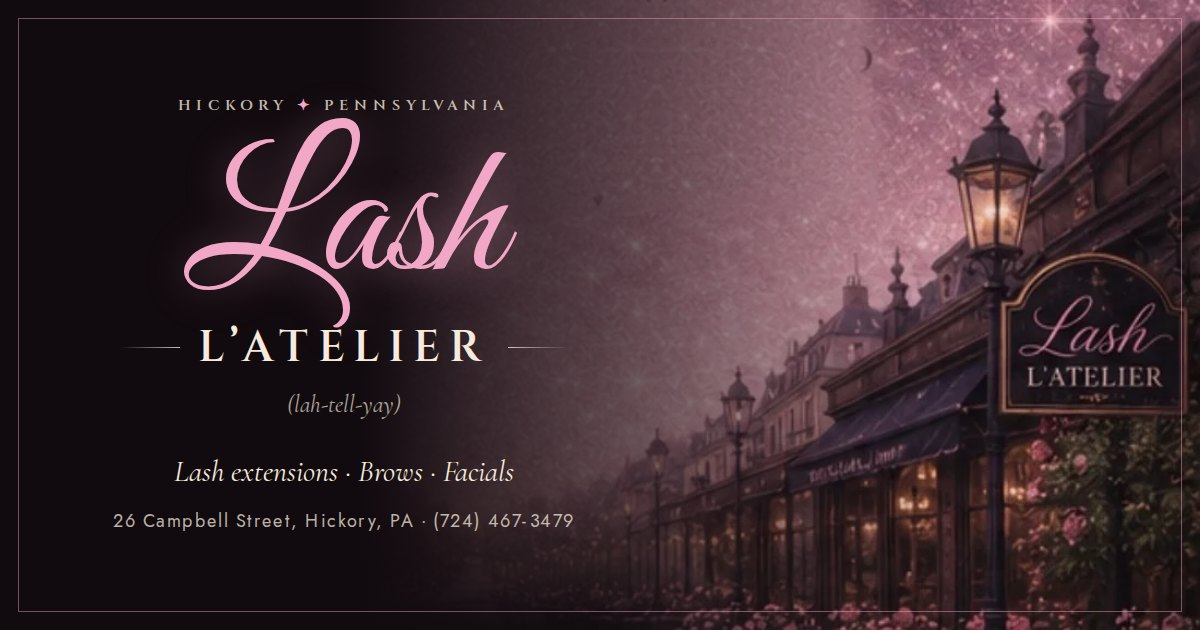
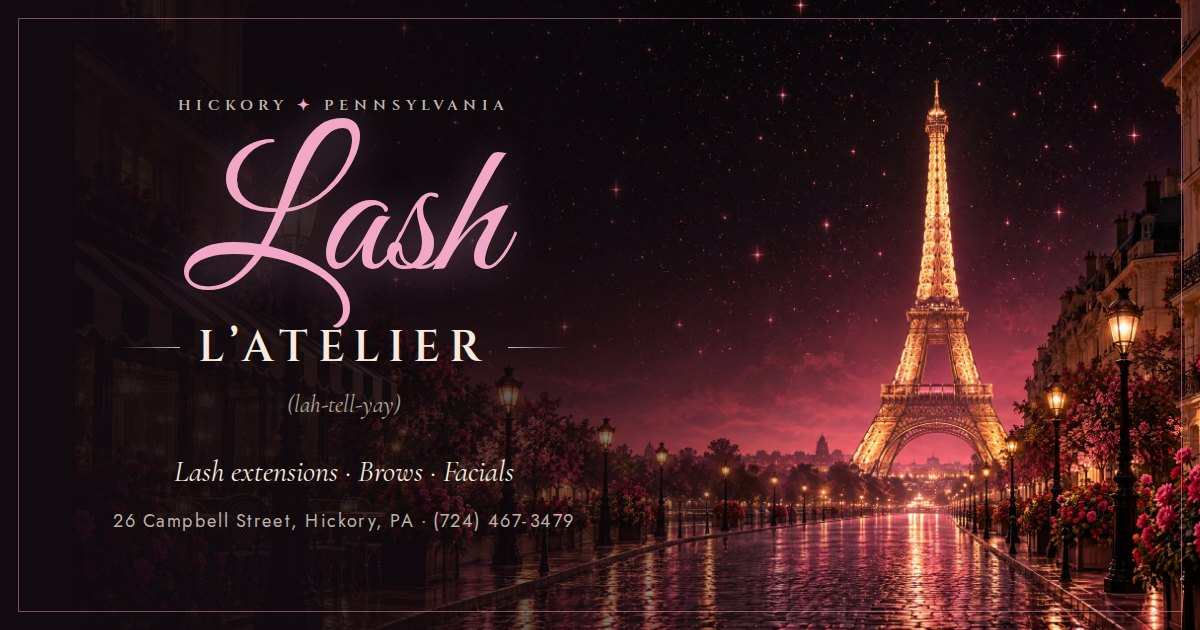
Rebuild hero around a full-bleed Eiffel Tower painting
The first hero left the upper two-thirds as empty sky with the flyer
street cropped into the bottom third. Replace it with two text-free
paintings generated for the site in the client's palette: a portrait
crop (tower centred down the street) and a landscape crop (tower right,
open sky left), art-directed with <picture> via getImageProps.

- Phone: name in the sky, actions on the lit street; a radial pool of
  night behind the name so the spire doesn't strike through it
- Desktop: left-aligned lockup and actions over the open sky
- Slow one-time settle on the painting; off under reduced motion
- Hero buttons stay on one line at 360px
- OG/Twitter card rebuilt on the new painting
- CLAUDE.md and creative direction updated with the decision

Claude-Session: https://claude.ai/code/session_017xx2nxcAqpLzJorpMfy1To

diff --git a/src/components/home/Hero.tsx b/src/components/home/Hero.tsx
@@ -1,4 +1,4 @@
-import Image from "next/image";
+import { getImageProps } from "next/image";
 import { ArrowRight, Phone } from "lucide-react";
 import OrnateFrame from "@/components/brand/OrnateFrame";
 import Sparkle from "@/components/brand/Sparkle";
@@ -7,88 +7,122 @@ import ButtonLink from "@/components/ui/ButtonLink";
 import { siteConfig } from "@/config/site.config";
 import { WELCOME_OFFER } from "@/data/offers";
 import { getBookingAction } from "@/lib/booking";
-import street from "../../../public/brand/paris-street.webp";
+import heroTall from "../../../public/brand/hero-eiffel-tall.webp";
+import heroWide from "../../../public/brand/hero-eiffel-wide.webp";
 
 /**
- * The hero is the client's flyer, rebuilt live: a black sky that warms to
- * glitter-pink at the horizon, twinkling stars, the wordmark writing itself
- * in, and their own painted Paris street — Eiffel Tower, gas lamps, and the
- * Lash L'Atelier sign — rising from the bottom of the screen.
+ * The hero is a full-bleed painting of the client's world at night: a
+ * glitter-black sky, the Eiffel Tower lit gold at the end of a rain-wet
+ * street, gas lamps, the striped café awning and roses — generated for this
+ * site (Higgsfield, Sept 2026) in the palette of their print pieces, with no
+ * lettering so the typeset wordmark owns the sky.
  *
- * On a phone the street is cropped toward its right side so the shop sign
- * and the lamp stay in frame; the tower returns as the screen widens.
+ * Two crops, art-directed with <picture>:
+ *  - tall (portrait screens): tower dead-centre down the street. The name sits
+ *    in the open sky above the spire; the actions sit on the lit cobblestones.
+ *  - wide (landscape screens): tower on the right, open sky on the left for
+ *    the name and actions — a left-aligned composition from `lg` up.
+ *
+ * The painting is the LCP element, so it is eager + high fetch priority. A
+ * slow 9s settle (scale 1.07 → 1) gives it life once; off under reduced motion.
  */
 export default function Hero() {
   const booking = getBookingAction();
 
+  const common = { alt: "", sizes: "100vw" } as const;
+  const {
+    props: { srcSet: wideSrcSet },
+  } = getImageProps({ ...common, src: heroWide });
+  const {
+    props: { srcSet: tallSrcSet, ...img },
+  } = getImageProps({ ...common, src: heroTall, loading: "eager", fetchPriority: "high" });
+
   return (
     <section aria-labelledby="hero-title" className="relative isolate flex min-h-[100svh] flex-col overflow-hidden bg-noir">
-      {/* Sky */}
+      {/* The painting */}
       <div aria-hidden="true" className="absolute inset-0 -z-10">
-        <div className="absolute inset-0 bg-[radial-gradient(130%_70%_at_50%_100%,rgb(242_167_198/0.42),rgb(58_31_46/0.6)_45%,transparent_75%)]" />
-        <div className="glitter-dust absolute inset-0 opacity-70 [mask-image:linear-gradient(to_bottom,black,black_55%,transparent)]" />
-        <Sparkle density={1.1} seed={3} />
+        <picture>
+          <source media="(min-aspect-ratio: 1/1)" srcSet={wideSrcSet} />
+          {/* eslint-disable-next-line jsx-a11y/alt-text -- alt="" comes from getImageProps; decorative */}
+          <img
+            {...img}
+            className="hero-settle absolute inset-0 h-full w-full object-cover object-[50%_62%] [@media(min-aspect-ratio:1/1)]:object-[60%_60%]"
+          />
+        </picture>
+
+        {/* Scrims — shaped to the composition rather than a flat wash, so the
+            tower and the lamps keep their glow. */}
+        <div className="absolute inset-x-0 top-0 h-[46%] bg-gradient-to-b from-noir/85 via-noir/45 to-transparent lg:h-full lg:w-[62%] lg:bg-gradient-to-r lg:from-noir/85 lg:via-noir/50" />
+        <div className="absolute inset-x-0 bottom-0 h-[42%] bg-gradient-to-t from-noir via-noir/70 to-transparent lg:h-[30%]" />
+        <Sparkle density={0.55} seed={3} className="opacity-80" />
       </div>
 
-      {/* The street */}
-      <div aria-hidden="true" className="absolute inset-x-0 bottom-0 -z-10 h-[46svh] sm:h-[52svh] lg:h-[62svh]">
-        <Image
-          src={street}
-          alt=""
-          priority
-          placeholder="blur"
-          sizes="100vw"
-          className="h-full w-full object-cover object-[80%_100%] sm:object-[70%_100%] lg:object-center [mask-image:linear-gradient(to_bottom,transparent,black_42%)]"
-        />
-        {/* Deepens the foot of the image so the page flows into the next section. */}
-        <div className="absolute inset-x-0 bottom-0 h-1/3 bg-gradient-to-t from-noir to-transparent" />
-      </div>
+      <OrnateFrame className="text-rose/40" inset="inset-3 top-[76px] sm:inset-5 sm:top-[84px]" />
 
-      <OrnateFrame className="text-rose/45" inset="inset-3 top-[76px] sm:inset-5 sm:top-[84px]" />
+      <div className="relative mx-auto flex w-full max-w-6xl flex-1 flex-col px-6 pt-[104px] pb-[calc(6.25rem+env(safe-area-inset-bottom))] text-center sm:px-10 lg:justify-center lg:pt-28 lg:pb-24 lg:text-left">
+        {/* In the sky */}
+        <div className="relative flex flex-col items-center lg:max-w-[34rem] lg:items-start">
+          {/* A pool of night sky behind the name: on portrait screens the spire
+              rises straight through the lockup, and this lets its tip fade into
+              the dark instead of striking through the lettering. */}
+          <span
+            aria-hidden="true"
+            className="pointer-events-none absolute -inset-x-10 -top-6 -bottom-10 -z-10 bg-[radial-gradient(closest-side,rgb(17_10_15/0.82),rgb(17_10_15/0.55)_55%,transparent)] lg:hidden"
+          />
+          <p className="rise-in font-caps text-[0.68rem] font-semibold tracking-[0.34em] text-creme/85 uppercase">
+            Hickory <span className="text-rose">✦</span> Pennsylvania
+          </p>
 
-      <div className="relative flex flex-1 flex-col items-center px-6 pt-[112px] pb-[38svh] text-center sm:pb-[44svh] lg:justify-center lg:pt-24 lg:pb-[40svh]">
-        <p className="rise-in font-caps text-[0.68rem] font-semibold tracking-[0.34em] text-creme/80 uppercase">
-          Hickory <span className="text-rose">✦</span> Pennsylvania
-        </p>
+          <h1 id="hero-title" className="mt-4 lg:mt-8">
+            <Wordmark size="hero" animate />
+            <span className="sr-only"> — lash extensions, brows and facials in Hickory, Pennsylvania</span>
+          </h1>
 
-        <h1 id="hero-title" className="mt-5 lg:mt-12">
-          <Wordmark size="hero" animate />
-          <span className="sr-only"> — lash extensions, brows and facials in Hickory, Pennsylvania</span>
-        </h1>
-
-        <p
-          className="rise-in mt-6 max-w-[22rem] font-display text-[1.3rem] leading-snug text-balance text-creme italic sm:max-w-none sm:text-2xl"
-          style={{ "--d": "0.55s" } as React.CSSProperties}
-        >
-          {siteConfig.descriptor}.
-        </p>
-
-        <div
-          className="rise-in mt-8 flex w-full max-w-xs flex-col gap-3 sm:max-w-none sm:flex-row sm:justify-center"
-          style={{ "--d": "0.7s" } as React.CSSProperties}
-        >
-          <ButtonLink
-            href={booking.href}
-            ariaLabel={booking.ariaLabel}
-            variant="rose"
-            icon={<Phone className="h-4 w-4" aria-hidden="true" />}
+          <p
+            className="rise-in mt-5 hidden max-w-md font-display text-2xl leading-snug text-balance text-creme italic lg:block"
+            style={{ "--d": "0.55s" } as React.CSSProperties}
           >
-            {booking.label}
-          </ButtonLink>
-          <ButtonLink href="/services" variant="outline-dark">
-            View the menu
-          </ButtonLink>
+            {siteConfig.descriptor}.
+          </p>
         </div>
 
-        <a
-          href="#welcome"
-          className="rise-in group mt-7 inline-flex items-center gap-2 rounded-full border border-gaslight/40 bg-noir/50 px-4 py-2 text-[0.8rem] text-gaslight backdrop-blur-sm transition-colors hover:border-gaslight"
-          style={{ "--d": "0.85s" } as React.CSSProperties}
-        >
-          <span className="font-display text-base font-semibold italic">${WELCOME_OFFER.amount} off</span>
-          <span className="text-creme/85">your first visit</span>
-          <ArrowRight className="h-3.5 w-3.5 transition-transform group-hover:translate-x-0.5" aria-hidden="true" />
-        </a>
+        {/* On the street (phone) — the tower keeps the middle of the screen. */}
+        <div className="mt-auto flex flex-col items-center lg:mt-9 lg:max-w-[34rem] lg:items-start">
+          <p
+            className="rise-in max-w-[20rem] font-display text-[1.3rem] leading-snug text-balance text-creme italic [text-shadow:0_2px_18px_rgb(17_10_15/0.9)] lg:hidden"
+            style={{ "--d": "0.55s" } as React.CSSProperties}
+          >
+            {siteConfig.descriptor}.
+          </p>
+
+          <div
+            className="rise-in mt-5 grid w-full max-w-sm grid-cols-2 gap-3 lg:mt-0 lg:flex lg:max-w-none lg:gap-4"
+            style={{ "--d": "0.7s" } as React.CSSProperties}
+          >
+            <ButtonLink
+              href={booking.href}
+              ariaLabel={booking.ariaLabel}
+              variant="rose"
+              className="px-3 tracking-[0.14em] whitespace-nowrap sm:px-6 lg:px-8 lg:tracking-[0.2em]"
+              icon={<Phone className="h-4 w-4" aria-hidden="true" />}
+            >
+              {booking.label}
+            </ButtonLink>
+            <ButtonLink href="/services" variant="outline-dark" className="bg-noir/40 px-3 tracking-[0.14em] whitespace-nowrap backdrop-blur-sm sm:px-6 lg:px-8 lg:tracking-[0.2em]">
+              The menu
+            </ButtonLink>
+          </div>
+
+          <a
+            href="#welcome"
+            className="rise-in group mt-4 inline-flex items-center gap-2 rounded-full border border-gaslight/45 bg-noir/60 px-4 py-2 text-[0.8rem] text-gaslight backdrop-blur-sm transition-colors hover:border-gaslight lg:mt-6"
+            style={{ "--d": "0.85s" } as React.CSSProperties}
+          >
+            <span className="font-display text-base font-semibold italic">${WELCOME_OFFER.amount} off</span>
+            <span className="text-creme/90">your first visit</span>
+            <ArrowRight className="h-3.5 w-3.5 transition-transform group-hover:translate-x-0.5" aria-hidden="true" />
+          </a>
+        </div>
       </div>
     </section>
   );

diff --git a/src/app/globals.css b/src/app/globals.css
@@ -265,6 +265,20 @@ html.lenis body {
   animation-delay: var(--d, 0s);
 }
 
+/* The hero painting settles once, like eyes adjusting to the night. */
+@keyframes settle {
+  from {
+    transform: scale(1.07);
+  }
+  to {
+    transform: scale(1);
+  }
+}
+.hero-settle {
+  animation: settle 9s var(--ease-soir) both;
+  transform-origin: 50% 60%;
+}
+
 @media (prefers-reduced-motion: reduce) {
   *,
   *::before,

diff --git a/CLAUDE.md b/CLAUDE.md
@@ -94,7 +94,7 @@ src/components/
   layout/  Header, MenuDrawer, Footer, MobileActionBar, PageHeader
   motion/  LenisProvider, Reveal
 content/legal/        generated — edit scripts/build-legal.py, not these
-public/brand/         paris-street.webp, roses.webp, seal.webp (client art)
+public/brand/         hero-eiffel-{tall,wide}.webp (generated hero), paris-street.webp, roses.webp, seal.webp (client art)
 supabase/schema.sql   Wallink baseline (leads, page_views, site_settings; RLS on)
 ```
 
@@ -130,6 +130,19 @@ Log every call here with its reason — without the reason, someone eventually "
   hero's overlays but will look soft on large retina screens. **Ask the owner
   for the original high-res files** (they were clearly generated/designed
   somewhere) and drop them into `public/brand/` at the same names.
+- **Hero = generated Eiffel Tower painting, full-bleed (Oziel's call, Sept 2026).**
+  The first hero (night sky with the flyer's street rising from the bottom
+  third) was rejected — *"I don't like the hero background or scarcity of the
+  hero itself… make it more Eiffel Tower."* Replaced with two text-free
+  paintings generated on Higgsfield (`gpt_image_2_5`, 2k) in the client's
+  palette: `hero-eiffel-tall.webp` (portrait: tower centred down the street)
+  and `hero-eiffel-wide.webp` (landscape: tower right, open sky left),
+  art-directed with `<picture>` on `min-aspect-ratio: 1/1`. On portrait
+  screens the name sits in the sky and the actions on the lit street; a
+  radial "pool of night" behind the name lets the spire tip fade instead of
+  striking through the lettering — don't remove it. The flyer street
+  (`paris-street.webp`) still appears in the Visit section, where its
+  Lash L'Atelier shop sign is the point. The OG card uses the wide painting.
 - **Red light wording follows the brochure, not the menu board.** The menu
   board says "Acne Treatment", "Hair Loss Scalp Regeneration"; the brochure
   softened these to "support"/"reduction". A cosmetic studio making medical

diff --git a/docs/CREATIVE_DIRECTION.md b/docs/CREATIVE_DIRECTION.md
@@ -14,7 +14,7 @@ lamps, café tables and roses; a striped awning; and hanging from a lamp post,
 the Lash L'Atelier sign. The website doesn't reinvent that — it **walks into
 it**. The page is paced like an evening stroll that ends at the studio door:
 
-1. **The street at night** (hero) — sky, sparkle, their painted street rising from below.
+1. **The street at night** (hero) — a full-bleed painting: the Eiffel Tower lit gold at the end of a rain-wet street of gas lamps, roses and the striped café awning, under their glitter sky.
 2. **The house rules** — what's different here, said before anything else.
 3. **The atelier** — what the word means; how they work.
 4. **The lashes** — the core decision, *drawn* so it can be understood.
